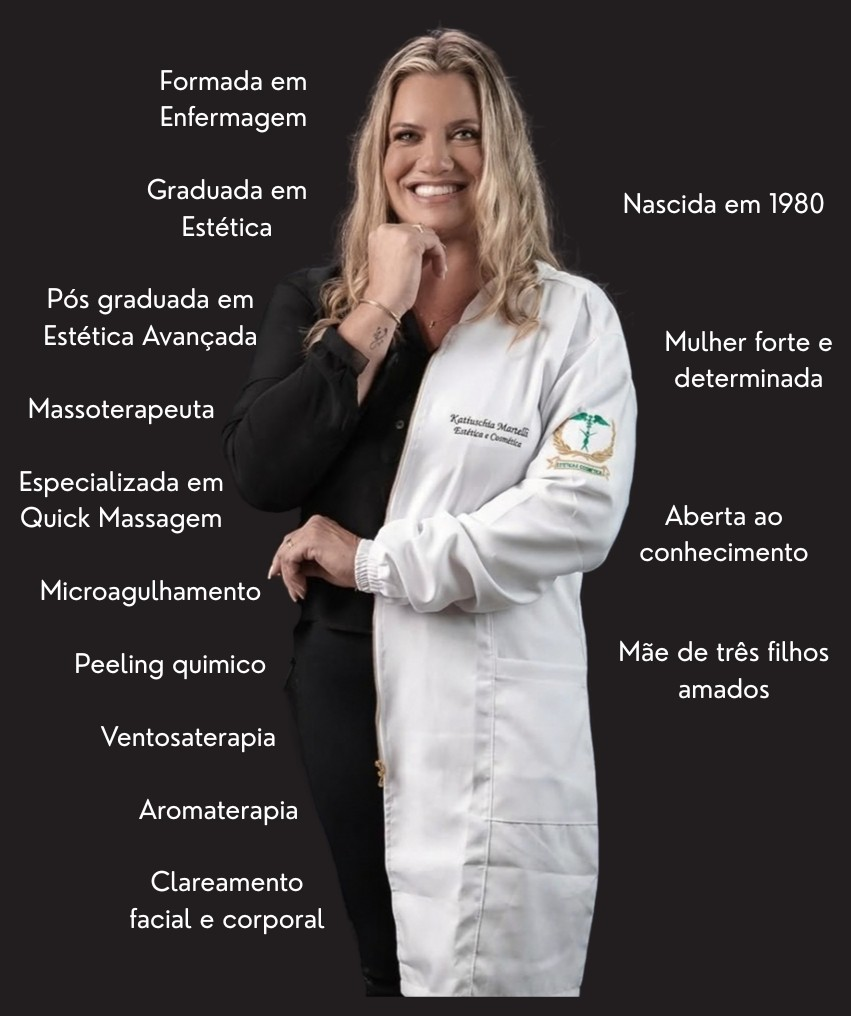
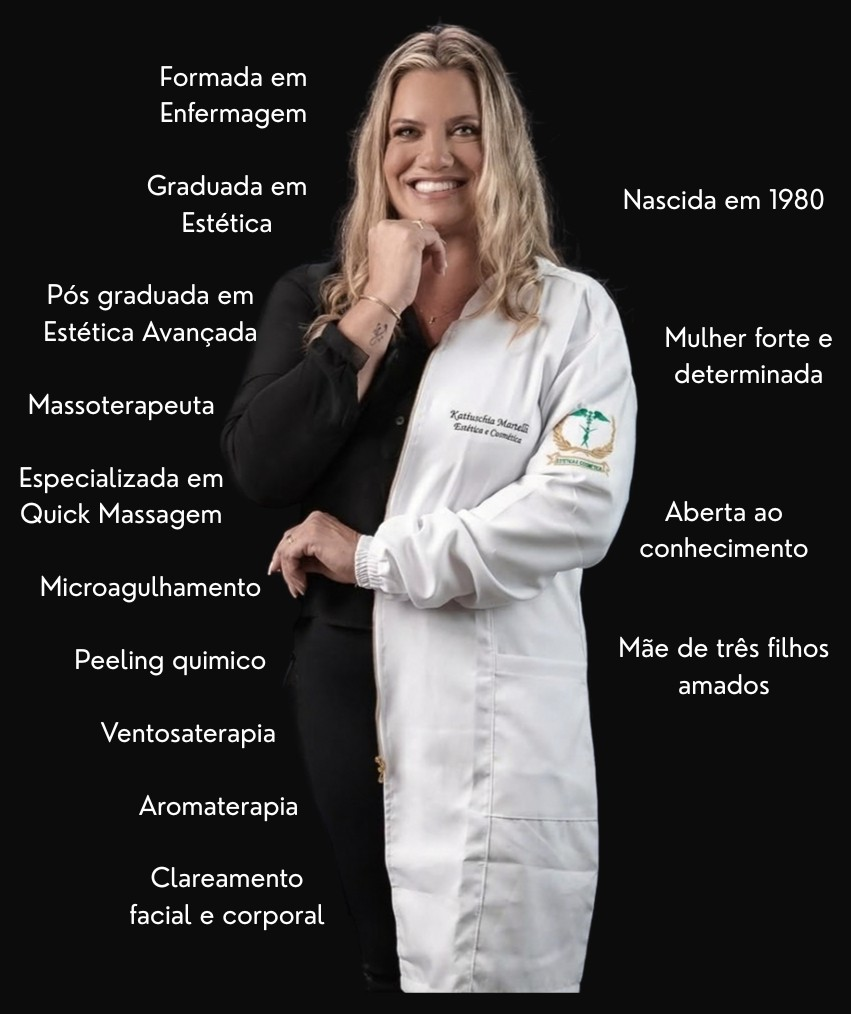
fix: swap about-section photo for version matching site background
Same content, but the background now matches #0c0c0d exactly instead
of the previous brownish near-black, so it blends into the card
instead of showing a visible seam.

diff --git a/index.html b/index.html
@@ -378,7 +378,7 @@
   <div class="about-card">
     <p class="about-title">Conheça Katiuschia Garcia</p>
     <div class="about-photo">
-      <img src="assets/katiuschia-sobre.jpg" alt="Katiuschia Garcia — formação, especialidades e um pouco sobre ela" width="851" height="1016" loading="lazy">
+      <img src="assets/katiuschia-sobre.jpg" alt="Katiuschia Garcia — formação, especialidades e um pouco sobre ela" width="851" height="1014" loading="lazy">
     </div>
   </div>
 
